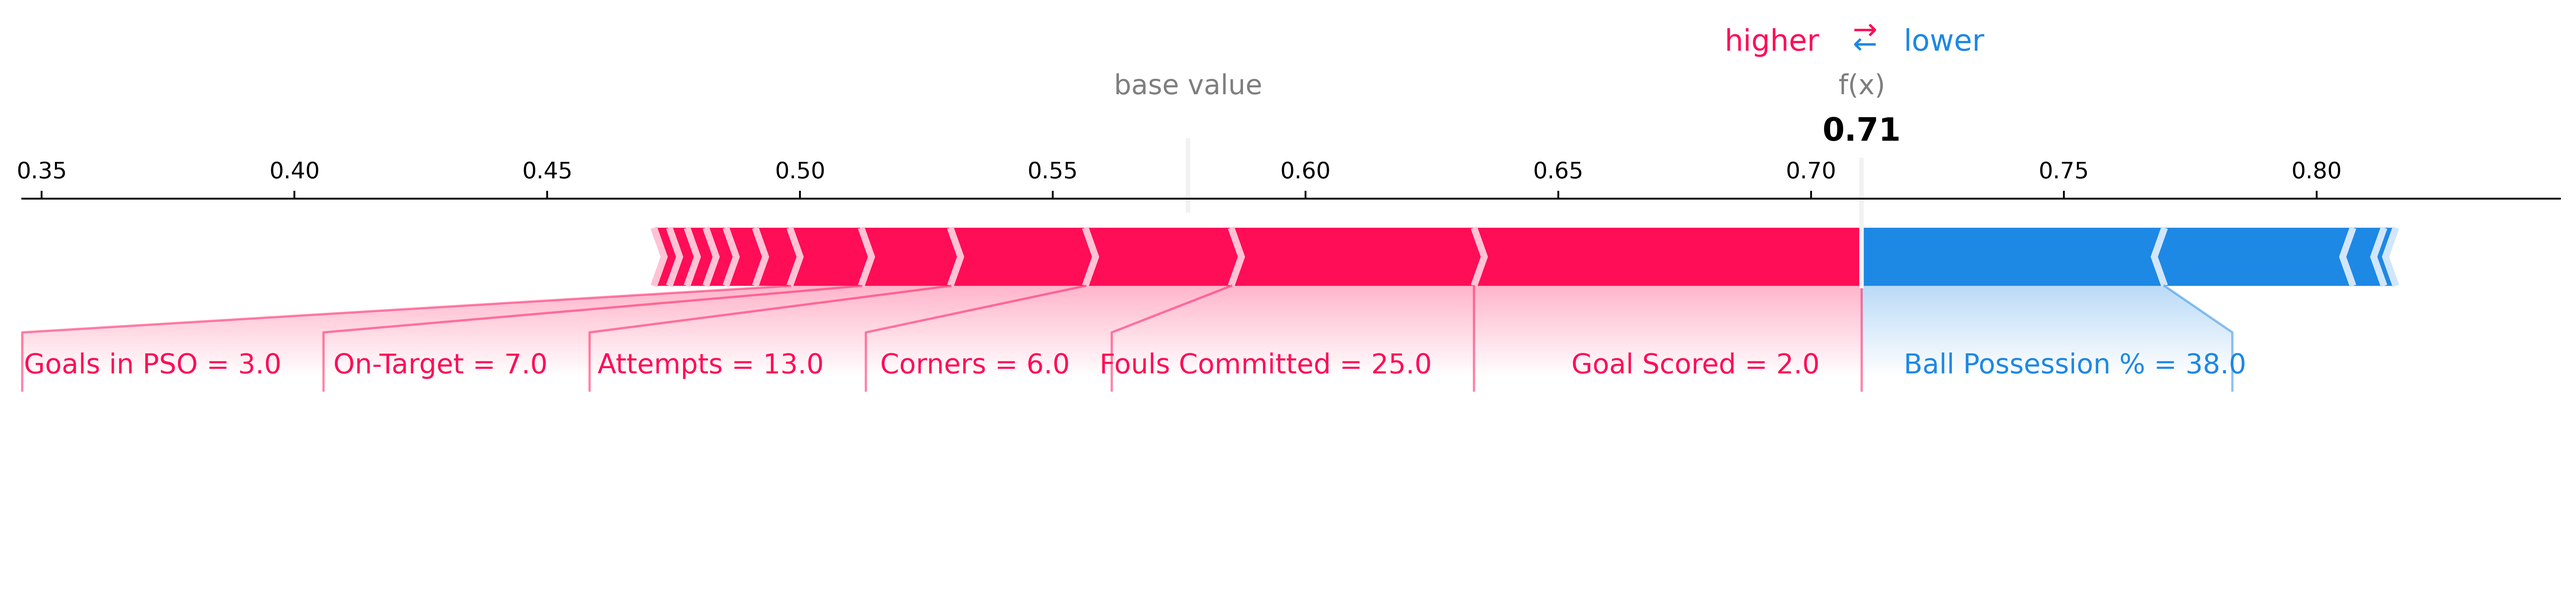
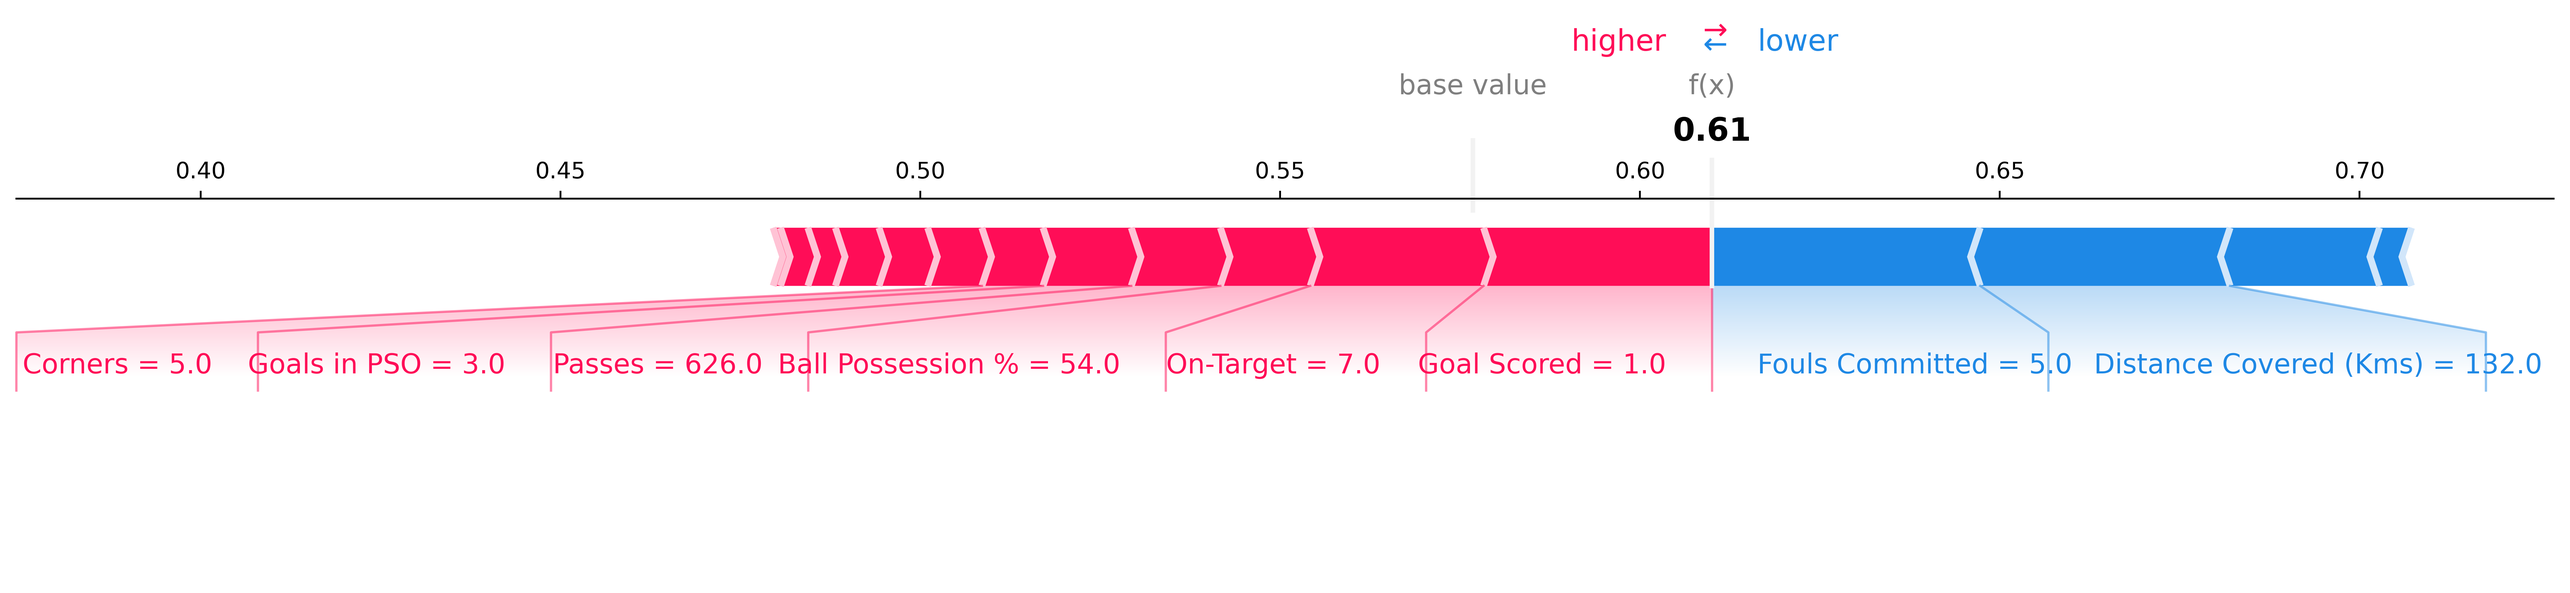
random row num for shap values

diff --git a/app.py b/app.py
@@ -4,10 +4,10 @@ import streamlit as st
 from explain import pdplot, perm_import, perm_import_plot, shapValue
 from desc import descriptive_message_temp as desc
 from desc import code, code2, overview_desc, home_page, fixed_head
-from contain.remove import run_opp, path
 import pandas as pd
 import matplotlib.pyplot as plt
 import os
+import random
 import numpy as np
 from io import StringIO
 
@@ -121,25 +121,25 @@ def main():
 
 
         def plot_shap_values():
-            feat_select_shap = st.selectbox('select num of rows to explain'
-                    , [
-                0,
-                5,
-                10,
-                20,
-                30,
-                40,
-                50,
-                100,
-                200,
-                300,
-                ])
-            if feat_select_shap != 0:
-                shapValue('tempdir_model/model2', X_train, X_test,
-                        tree_model=False, row_to_show=feat_select_shap)
+
+            random_selector =  st.button('Random_row')
+
+            if random_selector:
+                random_num = random.randint(0, 20)
+                st.write(f"Displaying for row number {random_num}")
+                shapValue('tempdir_model/model2', X_train, X_test, 
+                        tree_model=False, row_to_show=random_num)
                 plt.savefig('contain/tempdir/shapvalue.png', dpi=500,
                             bbox_inches='tight')
                 st.image('contain/tempdir/shapvalue.png')
+
+
+            # if feat_select_shap != 0:
+            #     shapValue('tempdir_model/model2', X_train, X_test,
+            #             tree_model=False, row_to_show=feat_select_shap)
+            #     plt.savefig('contain/tempdir/shapvalue.png', dpi=500,
+            #                 bbox_inches='tight')
+            #     st.image('contain/tempdir/shapvalue.png')
 
 
         which_ml_model = st.sidebar.selectbox('Type of ML',
@@ -227,10 +227,9 @@ def main():
 
                 st.write('Click on any ML_explain to explain Model')
 
-        done_explaining = st.button('Done')
+        
 
-        if done_explaining:
-            run_opp()
+        
     elif option == 'Tutorial':
 
         st.sidebar.markdown(overview_desc)
